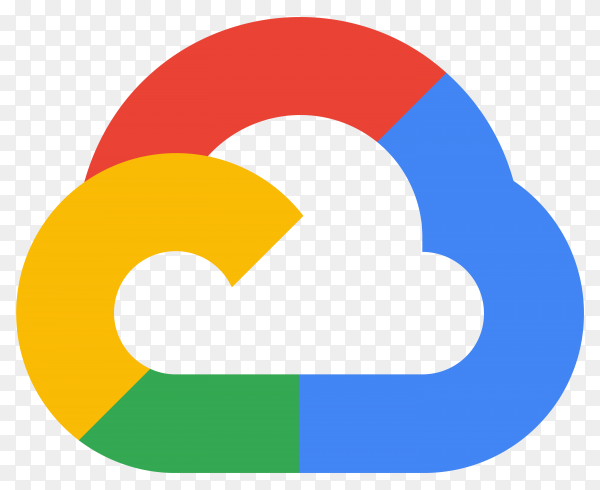
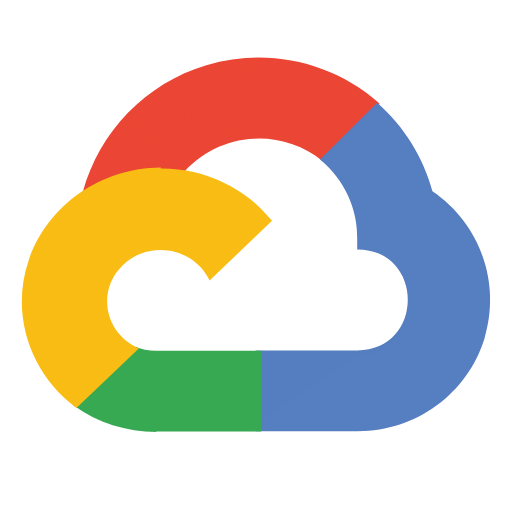
updating info

diff --git a/src/constants/index.js b/src/constants/index.js
@@ -23,7 +23,7 @@ import {
     jobit,
     tripguide,
     threejs,
-    googleCloud,
+    googlecloud,
     dbs,
     nft,
     gptflix,
@@ -117,26 +117,27 @@ import {
   
   const experiences = [
     {
-      title: "DevOps",
+      title: "SDE (DevOps)",
       company_name: "DBS Tech",
       icon: dbs,
-      iconBg: "#383E56",
+      iconBg: "#E6DEDD",
       date: "June 2024",
       points: [
         "Developing and maintaining web applications related technologies.",
+        "Achieving new milestones, learning different tech stacks (upskilling).",
       
       ],
     },
     {
       title: "Google Cloud Facilitator 23",
       company_name: "Google Cloud",
-      icon: googleCloud,
+      icon: googlecloud,
       iconBg: "#E6DEDD",
       date: "Sep 2023 - Feb 2024",
       points: [
         "Facilitate Arcade Event of Google cloud across India using Qwicklabs.",
-        "Helped in Achieving participants thier various milestones, Goodies and labs.",
-        "Participated in facilitator meetings to guide candidates and helped in learning them related to Google cloud Qwicklabs.",
+        "Helped in Achieving participants thier various milestones, goodies and labs.",
+        "Participated in facilitator meetings to guide candidates and helped in learning them related to Google Cloud Qwicklabs.",
       ],
     },
     // {
@@ -198,7 +199,7 @@ import {
     {
       name: "NFT MarketPlace",
       description:
-        "Web-based platform that allows users to buy, sell, and manage thier NFT's. A decentralized platform build using ICP blockchain.",
+        "Web3 based platform that allows users to buy, sell, and manage thier NFT's. A decentralized platform build using ICP blockchain.",
       tags: [
         {
           name: "react",

diff --git a/src/components/About.jsx b/src/components/About.jsx
@@ -47,7 +47,7 @@ const About = () => {
         variants={fadeIn("", "", 0.1, 1)}
         className='mt-4 text-secondary text-[17px] max-w-3xl leading-[30px]'
       >
-        I'm a skilled software developer with experience in JavaScript, c++ and expertise in frameworks like React and Node.js. I'm a quick learner and collaborate closely with clients to
+        I'm a skilled software developer with experience in JavaScript, C++ and expertise in frameworks like React and Node.js. I'm a quick learner and collaborate closely with clients to
         create efficient, scalable, and user-friendly solutions that solve
         real-world problems. Let's work together to bring your ideas to life!
       </motion.p>

diff --git a/src/assets/index.js b/src/assets/index.js
@@ -26,7 +26,7 @@ import shopify from "./company/shopify.png";
 import starbucks from "./company/starbucks.png";
 import tesla from "./company/tesla.png";
 import dbs from "./company/dbs.png";
-import googleCloud from "./company/googleCloud.png";
+import googlecloud from "./company/googlecloud.png";
 
 
 import carrent from "./carrent.png";
@@ -67,7 +67,7 @@ export {
   tripguide,
   nft,
   gptflix,
-  googleCloud,
+  googlecloud,
   dbs,
   keeper
 };
